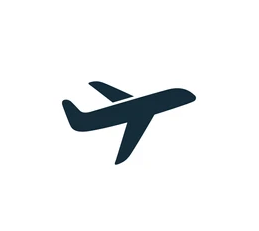
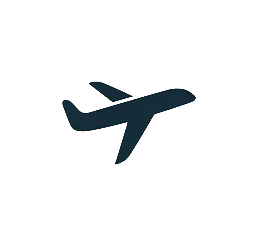
Implemented the support of image for circular button

diff --git a/src/button_widget.rs b/src/button_widget.rs
@@ -1,4 +1,3 @@
-use conrod_core::text::rt::Rect;
 use conrod_core::widget::button::{Flat, FlatIds, Image, ImageColor, ImageIds};
 use conrod_core::{
     self, text, widget, widget::button, widget_ids, Color, Colorable, FontSize, Labelable, Point,
@@ -8,21 +7,21 @@ use conrod_core::{image, Sizeable};
 use conrod_core::{Borderable, UiCell};
 
 use conrod_core::position;
-use conrod_core::{
-    self, text, widget, widget_ids, Color, Colorable, FontSize, Labelable, Positionable, Scalar,
-    Widget,
-};
 use conrod_core::{WidgetCommon, WidgetStyle};
 
 ///Circular Button Implementation.
 #[derive(WidgetCommon)]
-pub struct CircularButton<'a> {
+pub struct CircularButton<'a, S> {
     /// An object that handles some of the dirty work of rendering a GUI. We don't
     /// really have to worry about it.
     #[conrod(common_builder)]
     common: widget::CommonBuilder,
     /// Optional label string for the button.
     maybe_label: Option<&'a str>,
+
+    ///Type of Button (Image or Text)
+    show: S,
+
     ///What type of Button, Image or Flat
     /// See the Style struct below.
     style: Style,
@@ -60,12 +59,18 @@ pub struct Style {
 //Here we will making a widget with Circle and Text for the label
 //
 //This is how we generate one
-=======
 //This is how we generate it
 widget_ids! {
-    struct TextIds{
+    pub struct TextIds{
         circle,
         text,
+    }
+}
+
+widget_ids! {
+    pub struct OwnImageIds{
+        circle,
+        image,
     }
 }
 
@@ -74,16 +79,13 @@ pub struct TextState {
     ids: TextIds,
 }
 
-impl<'a> CircularButton<'a> {
+///Representation of Circle with Image
+pub struct ImageState {
+    ids: OwnImageIds,
+}
+
+impl<'a, S> CircularButton<'a, S> {
     ///Making a button context
-    pub fn new() -> Self {
-        CircularButton {
-            common: widget::CommonBuilder::default(),
-            style: Style::default(),
-            maybe_label: None,
-            enabled: true,
-        }
-    }
 
     ///Specify type of font used
     #[allow(dead_code)]
@@ -100,7 +102,168 @@ impl<'a> CircularButton<'a> {
     }
 }
 
-impl<'a> Widget for CircularButton<'a> {
+impl<'a> CircularButton<'a, Image> {
+    pub fn image(image_id: conrod_core::image::Id) -> Self {
+        CircularButton {
+            common: widget::CommonBuilder::default(),
+            maybe_label: None,
+            show: Image {
+                image_id,
+                hover_image_id: None,
+                press_image_id: None,
+                color: ImageColor::None,
+                src_rect: None,
+            },
+            style: Style::default(),
+            enabled: true,
+        }
+    }
+
+    ///The rectangular area of the image
+    ///
+    ///If not used it will use image's default size
+    pub fn source_rectangle(mut self, rect: conrod_core::position::Rect) -> Self {
+        self.show.src_rect = Some(rect);
+        self
+    }
+
+    ///Image's illuminance
+    pub fn image_color(mut self, color: conrod_core::color::Color) -> Self {
+        self.show.color = ImageColor::Normal(color);
+        self
+    }
+
+    ///Color will change slightly when button highlighted or clicked
+    pub fn image_color_with_feedback(mut self, color: conrod_core::color::Color) -> Self {
+        self.show.color = ImageColor::WithFeedback(color);
+        self
+    }
+
+    ///Image displayed while hovering button
+    pub fn hover_image(mut self, image_id: image::Id) -> Self {
+        self.show.hover_image_id = Some(image_id);
+        self
+    }
+
+    ///Image displayed when button is pressed
+    pub fn press_image(mut self, image_id: image::Id) -> Self {
+        self.show.press_image_id = Some(image_id);
+        self
+    }
+}
+
+impl<'a> CircularButton<'a, Flat> {
+    pub fn new() -> Self {
+        CircularButton {
+            common: widget::CommonBuilder::default(),
+            show: Flat {
+                hover_color: Some(conrod_core::color::WHITE),
+                press_color: Some(conrod_core::color::WHITE),
+            },
+            style: Style::default(),
+            maybe_label: None,
+            enabled: true,
+        }
+    }
+}
+impl<'a> Widget for CircularButton<'a, Image> {
+    type State = ImageState;
+    type Style = Style;
+    type Event = Option<()>;
+
+    fn init_state(&self, id_gen: widget::id::Generator) -> Self::State {
+        ImageState {
+            ids: OwnImageIds::new(id_gen),
+        }
+    }
+
+    fn style(&self) -> Self::Style {
+        self.style.clone()
+    }
+
+    fn update(self, args: widget::UpdateArgs<Self>) -> Self::Event {
+        let widget::UpdateArgs {
+            id,
+            state,
+            rect,
+            ui,
+            style,
+            ..
+        } = args;
+
+        let CircularButton {
+            maybe_label, show, ..
+        } = self;
+
+        //Initiate image
+        let Image {
+            image_id,
+            hover_image_id,
+            press_image_id,
+            color,
+            src_rect,
+        } = show;
+
+        let (button_color, event) = {
+            let input = ui.widget_input(id);
+
+            //If button was clicked
+            let event = input.clicks().left().next().map(|_| ());
+
+            let color = style.color(&ui.theme);
+            let color = input.mouse().map_or(color, |mouse| {
+                if mouse.buttons.left().is_down() {
+                    color.clicked()
+                } else {
+                    color.highlighted()
+                }
+            });
+
+            (color, event)
+        };
+
+        let radius = rect.w() / 2.0;
+
+        //Drawing the circle
+        widget::Circle::fill(radius)
+            .middle_of(id)
+            .graphics_for(id)
+            .color(button_color)
+            .set(state.ids.circle, ui);
+
+        let image_id = image_id;
+
+        let (x, y, w, h) = rect.x_y_w_h();
+
+        let mut image = widget::Image::new(image_id)
+            .x_y(x, y)
+            .w_h(w, h)
+            .parent(id)
+            .graphics_for(id);
+        image.src_rect = src_rect;
+        image.style.maybe_color = match color {
+            ImageColor::Normal(color) => Some(Some(color)),
+            ImageColor::WithFeedback(color) => ui
+                .widget_input(id)
+                .mouse()
+                .map(|mouse| {
+                    if mouse.buttons.left().is_down() {
+                        Some(color.clicked())
+                    } else {
+                        Some(color.highlighted())
+                    }
+                })
+                .or(Some(Some(color))),
+
+            ImageColor::None => None,
+        };
+
+        image.set(state.ids.image, ui);
+
+        event
+    }
+}
+impl<'a> Widget for CircularButton<'a, Flat> {
     type State = TextState;
     type Style = Style;
     type Event = Option<()>;
@@ -172,7 +335,7 @@ impl<'a> Widget for CircularButton<'a> {
 }
 
 /// Provide the chainable color() configuration method.
-impl<'a> Colorable for CircularButton<'a> {
+impl<'a, S> Colorable for CircularButton<'a, S> {
     fn color(mut self, color: conrod_core::Color) -> Self {
         self.style.color = Some(color);
         self
@@ -181,7 +344,7 @@ impl<'a> Colorable for CircularButton<'a> {
 
 /// Provide the chainable label(), label_color(), and label_font_size()
 /// configuration methods.
-impl<'a> Labelable<'a> for CircularButton<'a> {
+impl<'a, S> Labelable<'a> for CircularButton<'a, S> {
     fn label(mut self, text: &'a str) -> Self {
         self.maybe_label = Some(text);
         self

diff --git a/src/lib.rs b/src/lib.rs
@@ -1,5 +1,10 @@
 use conrod_core::{
-    text::Font, widget, widget_ids, Colorable, Labelable, Positionable, Sizeable, Widget,
+    text::Font,
+    widget::{
+        self,
+        button::{Flat, ImageIds},
+    },
+    widget_ids, Colorable, Labelable, Positionable, Sizeable, Widget,
 };
 use glam::DVec2;
 use glium::Surface;
@@ -24,7 +29,7 @@ const HEIGHT: u32 = 720;
 
 const MAX_ZOOM_LEVEL: u32 = 20;
 
-widget_ids!(pub struct Ids { fps_logger, text, viewport, map_images[], squares[], tiles[], square_text[], circular_button });
+widget_ids!(pub struct Ids { fps_logger, text, viewport, map_images[], squares[], tiles[], square_text[], circular_button ,airplane_image, image_button});
 
 pub fn run_app() {
     // Create our UI's event loop
@@ -46,7 +51,27 @@ pub fn run_app() {
 
     let mut image_map: conrod_core::image::Map<glium::Texture2d> = conrod_core::image::Map::new();
 
+    struct Image_Ids {
+        normal: conrod_core::image::Id,
+        hover: conrod_core::image::Id,
+        press: conrod_core::image::Id,
+    }
+
+    let image_bytes = include_bytes!("../assets/images/airplane-icon.png");
+
+    let airplane_image = load_image(&display, image_bytes);
+    let (w, h) = (
+        airplane_image.get_width(),
+        airplane_image.get_height().unwrap(),
+    );
+    let image_ids = Image_Ids {
+        normal: image_map.insert(airplane_image),
+        hover: image_map.insert(load_image(&display, image_bytes)),
+        press: image_map.insert(load_image(&display, image_bytes)),
+    };
+
     let noto_sans_ttf = include_bytes!("../assets/fonts/NotoSans/NotoSans-Regular.ttf");
+
     let font = Font::from_bytes(noto_sans_ttf).expect("Failed to decode font");
     ui.fonts.insert(font);
 
@@ -145,7 +170,7 @@ pub fn run_app() {
                         .font_size(12)
                         .set(ids.fps_logger, ui);
 
-                    for _clicks in CircularButton::new()
+                    if let Some(_clicks) = CircularButton::image(image_ids.normal)
                         .color(conrod_core::color::WHITE)
                         .top_right()
                         .w_h(50.0, 50.0)
@@ -157,6 +182,8 @@ pub fn run_app() {
                     }
 
                     // Request redraw if the `Ui` has changed.
+                    //
+
                     display.gl_window().window().request_redraw();
                 }
             }
@@ -178,4 +205,14 @@ pub fn run_app() {
             _ => {}
         }
     })
+}
+// Load an image from our assets folder as a texture we can draw to the screen.
+fn load_image(display: &glium::Display, bytes: &[u8]) -> glium::texture::Texture2d {
+    let rgba_image = image::load_from_memory(bytes).unwrap().to_rgba();
+    let image_dimensions = rgba_image.dimensions();
+    let raw_image = glium::texture::RawImage2d::from_raw_rgba_reversed(
+        &rgba_image.into_raw(),
+        image_dimensions,
+    );
+    glium::texture::Texture2d::new(display, raw_image).unwrap()
 }

diff --git a/src/map_renderer.rs b/src/map_renderer.rs
@@ -13,7 +13,6 @@ pub fn draw(
     //Or value is okay here because `tile_size()` only returns `None` if no tiles are cached, which
     //only happens the first few frames, therefore this value doesn't need to be accurate
     let tile_size = tile_cache.tile_size().unwrap_or(256) / 2;
-    println!("Using size: {}", tile_size);
 
     let it = view.tile_iter(tile_size, ui.win_w as u32, ui.win_h as u32);
     let size = it.tile_size;
